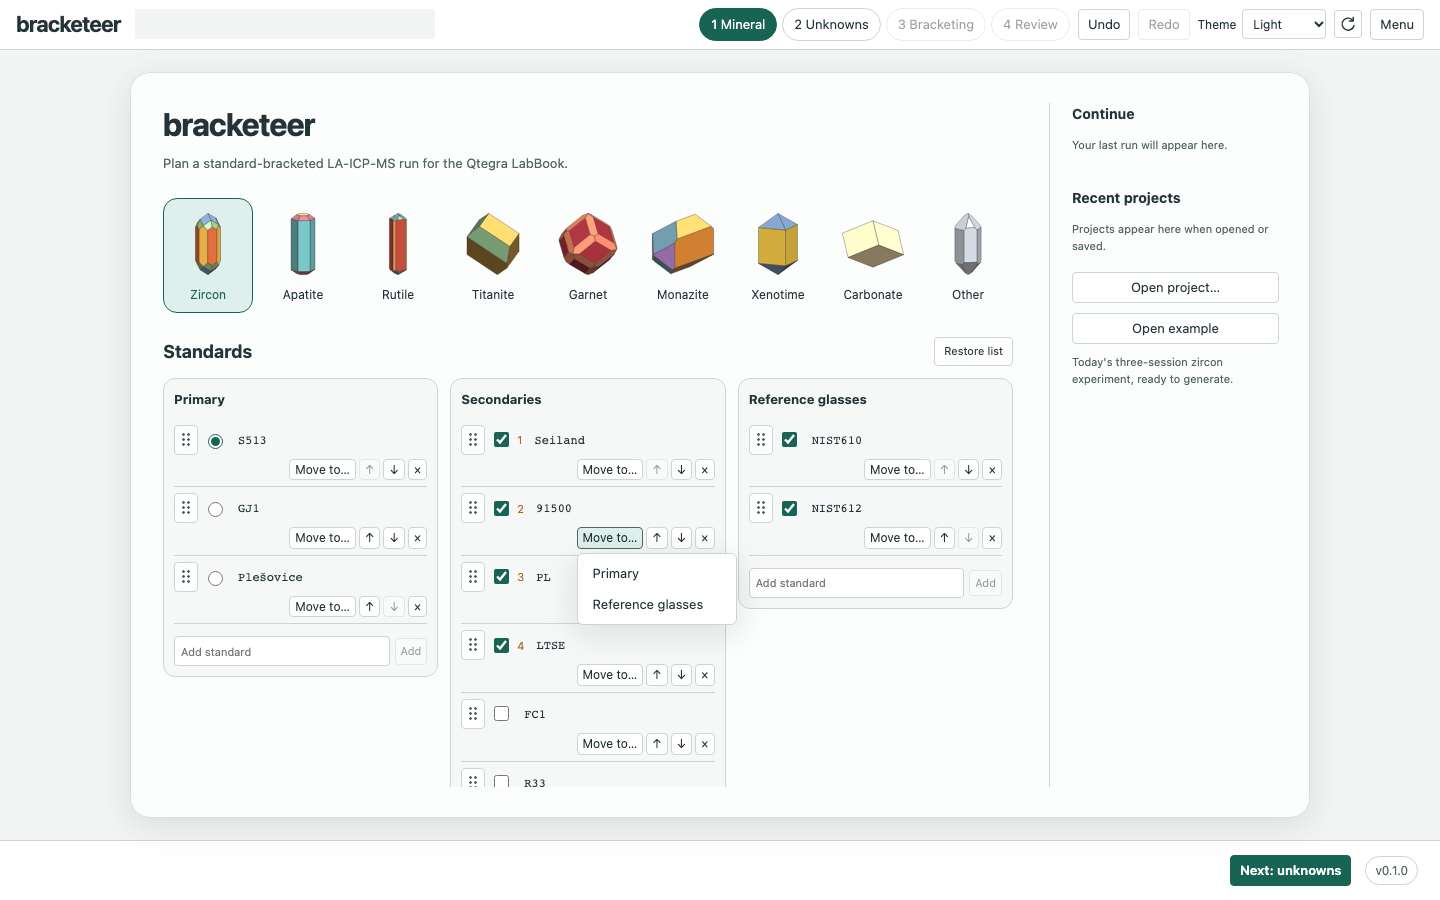
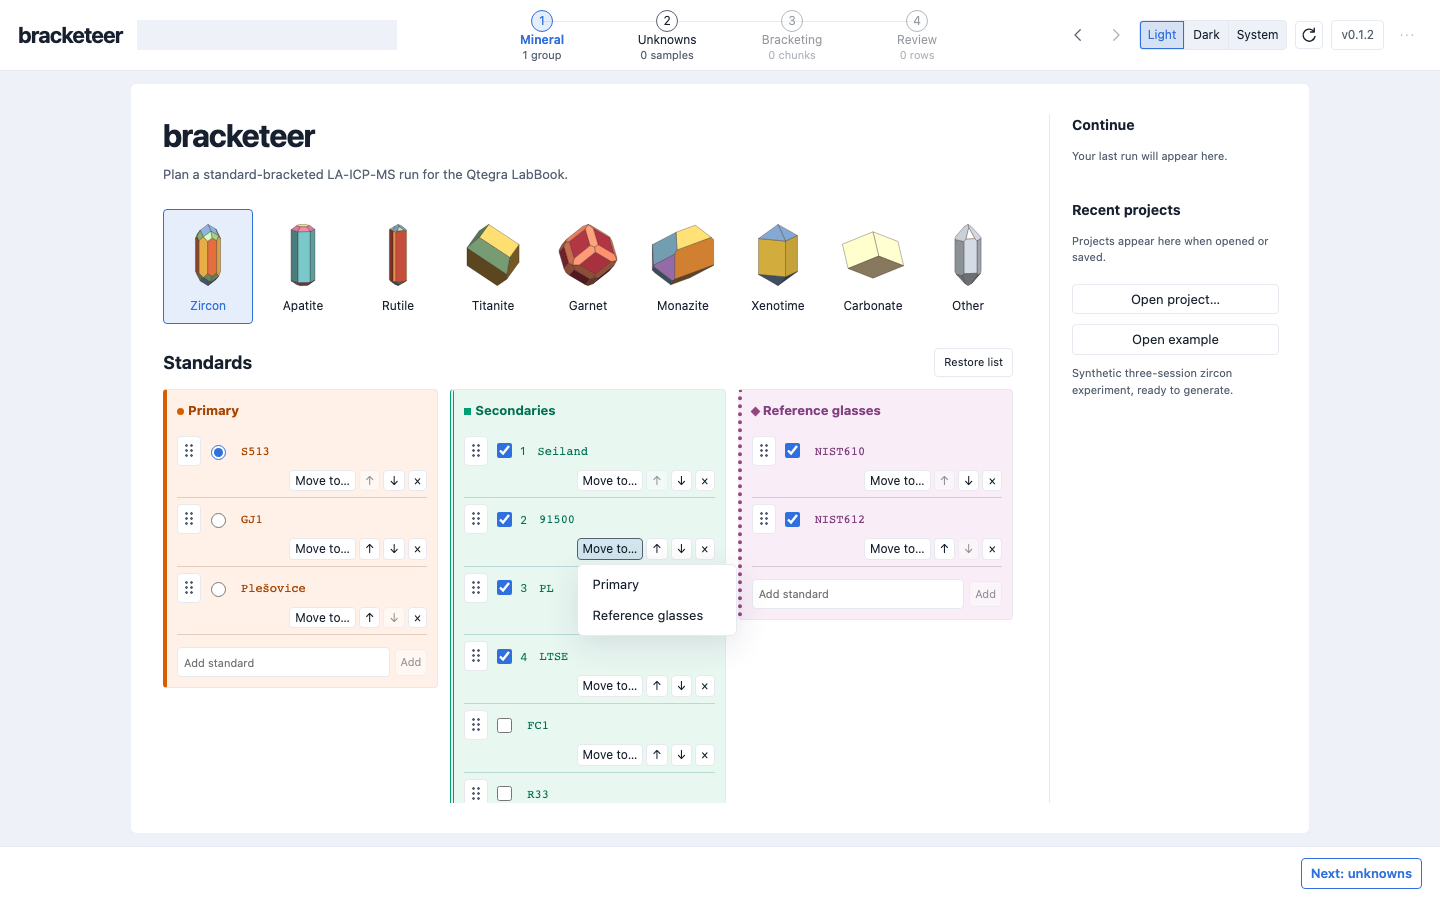
bracketeer 0.1.2
New look from the shared lab design, the lab blue theme, and standards
coloured apart from unknowns. Documentation screenshots refreshed.

diff --git a/release-notes/0.1.2.md b/release-notes/0.1.2.md
@@ -1,0 +1,3 @@
+- Work through counted steps, segmented choices and status chips in the shared lab design, with Export .xls as the main button.
+- Use the lab blue theme throughout the app.
+- Tell primary, secondary and reference standards apart from unknowns by colour in the run table, counts and standard spots.
